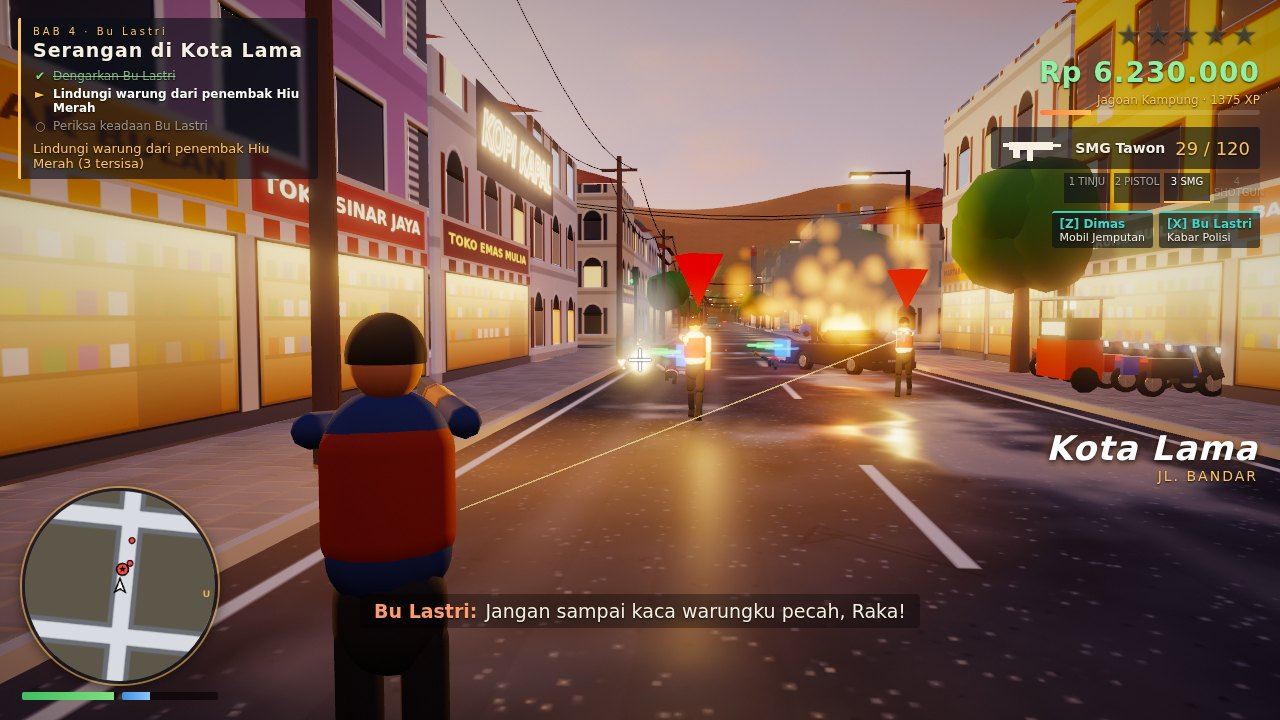
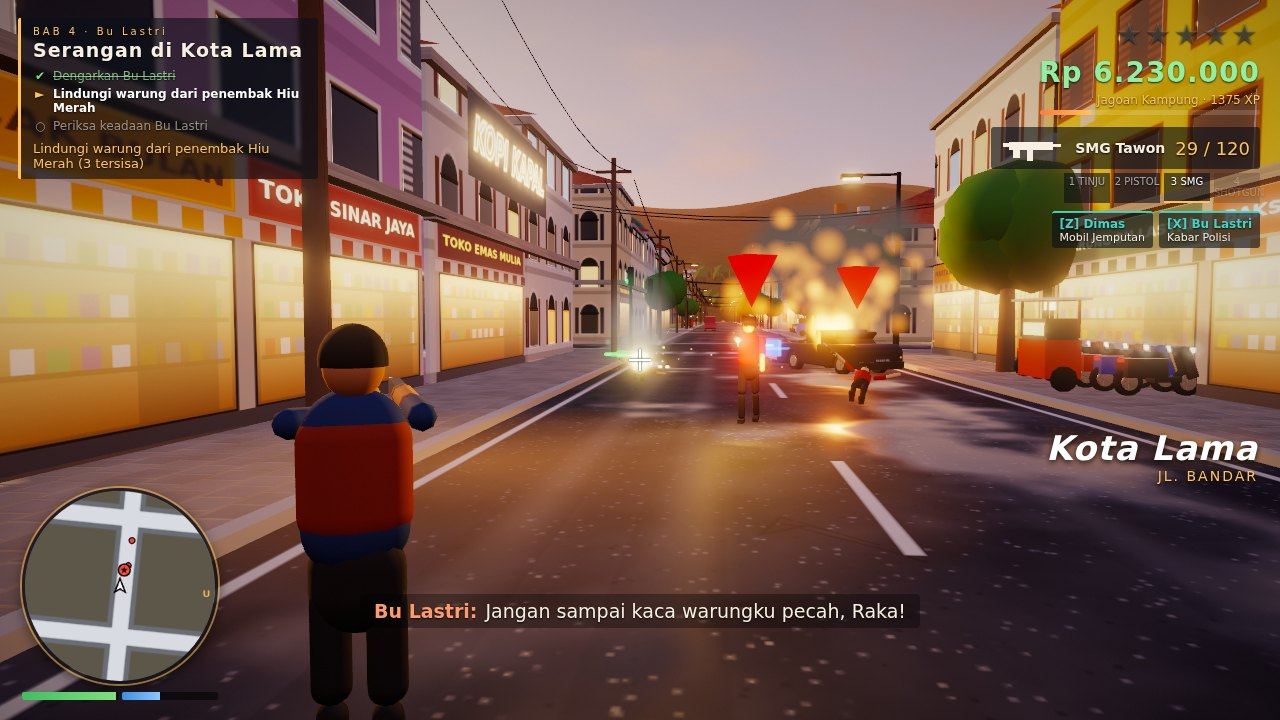
Floor ledges and cornices on buildings, wider over-the-shoulder aim, reshoot

diff --git a/game/src/city/building-generator.js b/game/src/city/building-generator.js
@@ -81,7 +81,28 @@ function building(batch, collision, spec) {
     const oz = Math.cos(side) * ((side === 0 || side === Math.PI ? d : w) / 2 + 0.06);
     shopfront(batch, x + ox, z + oz, len - 0.6, side);
   }
+  addLedges(batch, x, z, w, d, h, style, floorH, mat);
   collision.addCenteredBox(x, z, w, d, h + CURB_HEIGHT);
+}
+
+// Floor slabs and balcony ledges that stick out of the facade and catch the low sun.
+function addLedges(batch, x, z, w, d, h, style, floorH, mat) {
+  const spec = { office: [1, 0.28, 0.22], apartment: [1, 0.65, 0.14], glass: [4, 0.35, 0.4], ruko: [100, 0.5, 0.25], colonial: [100, 0.35, 0.35] }[style];
+  if (!spec) return;
+  const [every, out, thick] = spec;
+  const slab = style === 'glass' ? assets.material('metal-dark') : style === 'apartment' ? assets.material('white-plaster') : assets.material('concrete');
+  const start = style === 'ruko' || style === 'colonial' ? Math.min(4.4, h - 1) : floorH * every;
+  for (let y = start; y < h - 0.6; y += floorH * every) {
+    const yy = CURB_HEIGHT + y;
+    put(batch, BOX, slab, x, yy, z + d / 2 + out / 2, w + out * 2, thick, out);
+    put(batch, BOX, slab, x, yy, z - d / 2 - out / 2, w + out * 2, thick, out);
+    put(batch, BOX, slab, x + w / 2 + out / 2, yy, z, out, thick, d);
+    put(batch, BOX, slab, x - w / 2 - out / 2, yy, z, out, thick, d);
+    if (style === 'ruko' || style === 'colonial') break; // a single cornice above the shops
+  }
+  // Cornice at the top edge.
+  put(batch, BOX, slab, x, CURB_HEIGHT + h - 0.15, z, w + 0.5, 0.3, d + 0.5);
+  void mat;
 }
 
 // Water tanks (toren), AC units, antennas: the skyline detail of the city.

diff --git a/game/src/camera/camera-rig.js b/game/src/camera/camera-rig.js
@@ -53,8 +53,8 @@ export class CameraRig {
       this.target.set(v.pos.x, v.y, v.pos.z);
     } else {
       this.mode = player.aiming ? 'aim' : 'foot';
-      dist = player.aiming ? 2.3 : 4.4;
-      shoulder = player.aiming ? 0.75 : 0.35;
+      dist = player.aiming ? 2.7 : 4.4;
+      shoulder = player.aiming ? 1.0 : 0.35;
       height = 1.62;
       lookH = 1.55;
       fov = player.aiming ? 50 : 62;
